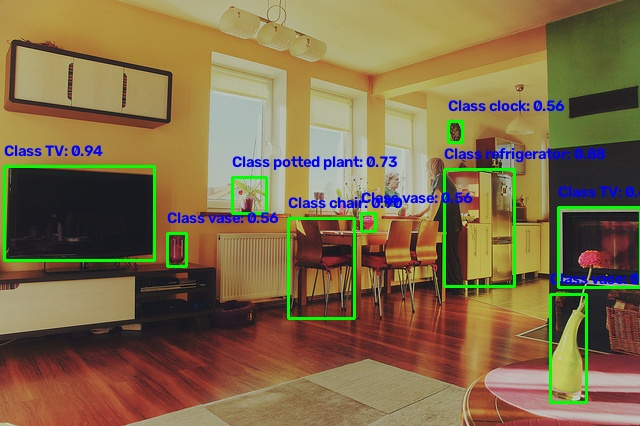
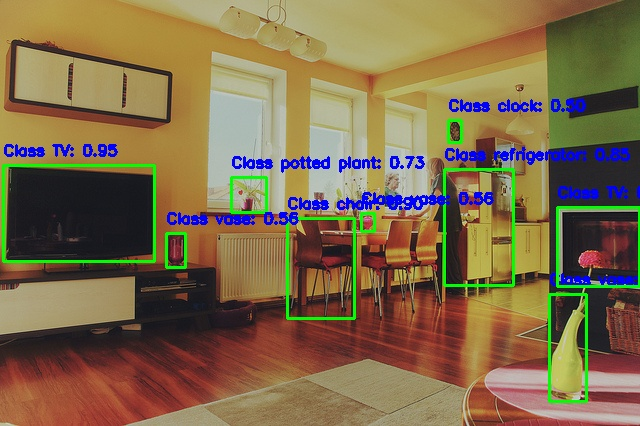
yolov8m: add BF16 path docs, fix XINT8 instructions, update benchmarks
- Add Option B: BF16 quantization and NPU inference instructions
- Document VAIML compilation results (925 ops, 100% NPU offload)
- Remove unnecessary 'pip install amd-quark' (already in Ryzen AI env)
- Fix bracket typo in --exclude_subgraphs command
- Update performance table with measured results on STX
- Add BF16 detection output image

diff --git a/CNN-examples/object_detection/yolov8m/README.md b/CNN-examples/object_detection/yolov8m/README.md
@@ -7,14 +7,17 @@
 
 # Introduction
 
-In this tutorial we deploy a YOLOv8m object detector on the Ryzen AI NPU. The path below is `XINT8`. `BF16` is left for later.
+In this tutorial we deploy a YOLOv8m object detector on the Ryzen AI NPU. Two quantization paths are supported:
+
+- **XINT8** — INT8 quantization via AMD Quark. Higher throughput, slight accuracy loss.
+- **BF16** — BFloat16 quantization via AMD Quark with `BF16QDQToCast`. Comparable throughput to XINT8 but closer to FP32 accuracy. VAIML automatically compiles the entire model for NPU (100% operator offload).
 
 ## Overview
 
-The following steps outline how to deploy the quantized model on an NPU:
+The following steps outline how to deploy the model on an NPU:
 
 - Export `yolov8m.pt` to ONNX (opset 17)
-- Quantize with AMD Quark `XINT8`, leaving the detection-head concat subgraph in float
+- Quantize with AMD Quark — either `XINT8` or `BF16`
 - Compile and run on the NPU with ONNX Runtime and the Vitis AI Execution Provider
 
 
@@ -28,7 +31,6 @@ Use the Ryzen AI environment from the installer. `requirements.txt` only adds `p
 set RYZEN_AI_CONDA_ENV_NAME=ryzen-ai-<version>
 conda activate %RYZEN_AI_CONDA_ENV_NAME%
 cd <RyzenAI-SW>\CNN-examples\object_detection\yolov8m
-pip install amd-quark
 pip install -r requirements.txt
 ```
 
@@ -40,7 +42,6 @@ Activate the installer venv first. That sets `RYZEN_AI_INSTALLATION_PATH` to the
 source <Ryzen-AI-install>/venv/bin/activate
 source /opt/xilinx/xrt/setup.sh
 cd <RyzenAI-SW>/CNN-examples/object_detection/yolov8m
-python -m pip install amd-quark
 python -m pip install -r requirements.txt
 ```
 
@@ -53,7 +54,7 @@ cd models
 python export_to_onnx.py
 ```
 
-## Quantize and run XINT8
+## Option A: Quantize and run XINT8
 
 Quark `XINT8` is the same configuration used by `CNN-examples/torchvision_inference`: `get_default_config("XINT8")`, with no `BF16QDQToCast`. The NPU session is created with the Vitis AI Execution Provider and cache options only. No VAIML config file is passed.
 
@@ -64,7 +65,7 @@ python quantize_quark.py --input_model_path models/yolov8m.onnx \
                          --calib_data_path calib_images \
                          --output_model_path models/yolov8m_XINT8.onnx \
                          --config XINT8 \
-                         --exclude_subgraphs "[/model.22/Concat_3], [/model.22/Concat_10]]"
+                         --exclude_subgraphs "[/model.22/Concat_3], [/model.22/Concat_10]"
 ```
 
 Run it on `test_image.jpg`. Use forward slashes in the model path so the command is the same in bash and in the Windows shell.
@@ -77,9 +78,37 @@ The run writes `test_output_int8.jpg`.
 
 ![test_output_int8](test_output_int8.jpg)
 
-### Evaluate the model accuracy
+## Option B: Quantize and run BF16
 
-The `XINT8` quantized model accuracy is evaluated on COCO dataset
+The BF16 path uses Quark's `BF16` config with `BF16QDQToCast` enabled, which inserts Cast ops instead of QuantizeLinear/DequantizeLinear pairs. VAIML then automatically casts the FP32 model to BFloat16 and compiles the entire graph for the NPU — no subgraph exclusions are needed.
+
+### Quantize to BF16
+
+```bash
+python quantize_quark.py --input_model_path models/yolov8m.onnx \
+                         --calib_data_path calib_images \
+                         --output_model_path models/yolov8m_BF16.onnx \
+                         --config BF16
+```
+
+Note: unlike XINT8, **no `--exclude_subgraphs` is needed** for BF16. The entire model, including the detection head, compiles and runs correctly on the NPU.
+
+### Run BF16 inference
+
+The BF16 path requires a VAIML config file (`vaiml_config.json`, included in this directory) which tells the Vitis AI EP to use the VAIML partition pass. The `run_inference.py` script selects this config automatically when `--device npu-bf16` is specified.
+
+```bash
+python run_inference.py --model_input models/yolov8m_BF16.onnx --input_image test_image.jpg --output_image test_output_bf16.jpg --device npu-bf16
+```
+
+On first run, VAIML compiles the model for the NPU (this may take a few minutes). The compilation cache is stored in `modelcachekey/` and reused on subsequent runs. The VAIML compilation summary reports:
+
+- **925 operators — 100% supported by VAIML**
+- **82.3 GOPs — 100% offloaded to AIE (NPU)**
+- **1 single subgraph** — the entire model runs as one NPU partition with no CPU-NPU data transfers in between
+- **0 unsupported ops**
+
+### Evaluate the model accuracy
 
 Use the `prepare_data.py` script to download the COCO dataset
 
@@ -87,10 +116,11 @@ Use the `prepare_data.py` script to download the COCO dataset
 python prepare_data.py
 ```
 
-Evaluate the accuracy of the model on COCO dataset, use `--device` options `cpu` or  `npu-int8` to measure accuracy metrics on CPU/NPU respectively.
+Evaluate the accuracy of the model on COCO dataset. Use `--device` options `cpu`, `npu-int8`, or `npu-bf16` to measure accuracy metrics on CPU/NPU respectively.
 
 ```bash
-python run_inference --model_input models\yolov8m_XINT8.onnx --evaluate --coco_dataset datasets\coco --device npu-int8
+python run_inference.py --model_input models/yolov8m_XINT8.onnx --evaluate --coco_dataset datasets/coco --device npu-int8
+python run_inference.py --model_input models/yolov8m_BF16.onnx --evaluate --coco_dataset datasets/coco --device npu-bf16
 ```
 
 <div align="center">
@@ -114,7 +144,8 @@ Evaluate the Performance of Model across Float32 (CPU), BF16 and XINT8. Model is
 Use `--benchmark` option while running the Model
 
 ```bash
-python run_inference.py --model_input models\yolov8m_BF16.onnx --input_image test_image.jpg --output_image test_output.jpg --device npu-bf16 --benchmark
+python run_inference.py --model_input models/yolov8m_BF16.onnx --input_image test_image.jpg --output_image test_output_bf16.jpg --device npu-bf16 --benchmark
+python run_inference.py --model_input models/yolov8m_XINT8.onnx --input_image test_image.jpg --output_image test_output_int8.jpg --device npu-int8 --benchmark
 ```
 
 
@@ -122,8 +153,8 @@ python run_inference.py --model_input models\yolov8m_BF16.onnx --input_image tes
 
 |  Yolov8m      | Avg time for each Inference (Latency) |  Frames per Second (FPS)| 
 |---------------|---------------------------------------|-------------------------|
-| Float32 (CPU) |       0.486 sec                       |     2.1                 |
-| BF16    (NPU) |       0.075 sec                       |     13.4                |
-| XINT8   (NPU) |       0.021 sec                       |     48.2                |
+| Float32 (CPU) |       0.154 sec                       |     6.5                 |
+| BF16    (NPU) |       0.029 sec                       |     34.1                |
+| XINT8   (NPU) |       0.026 sec                       |     37.8                |
 
 </div>
